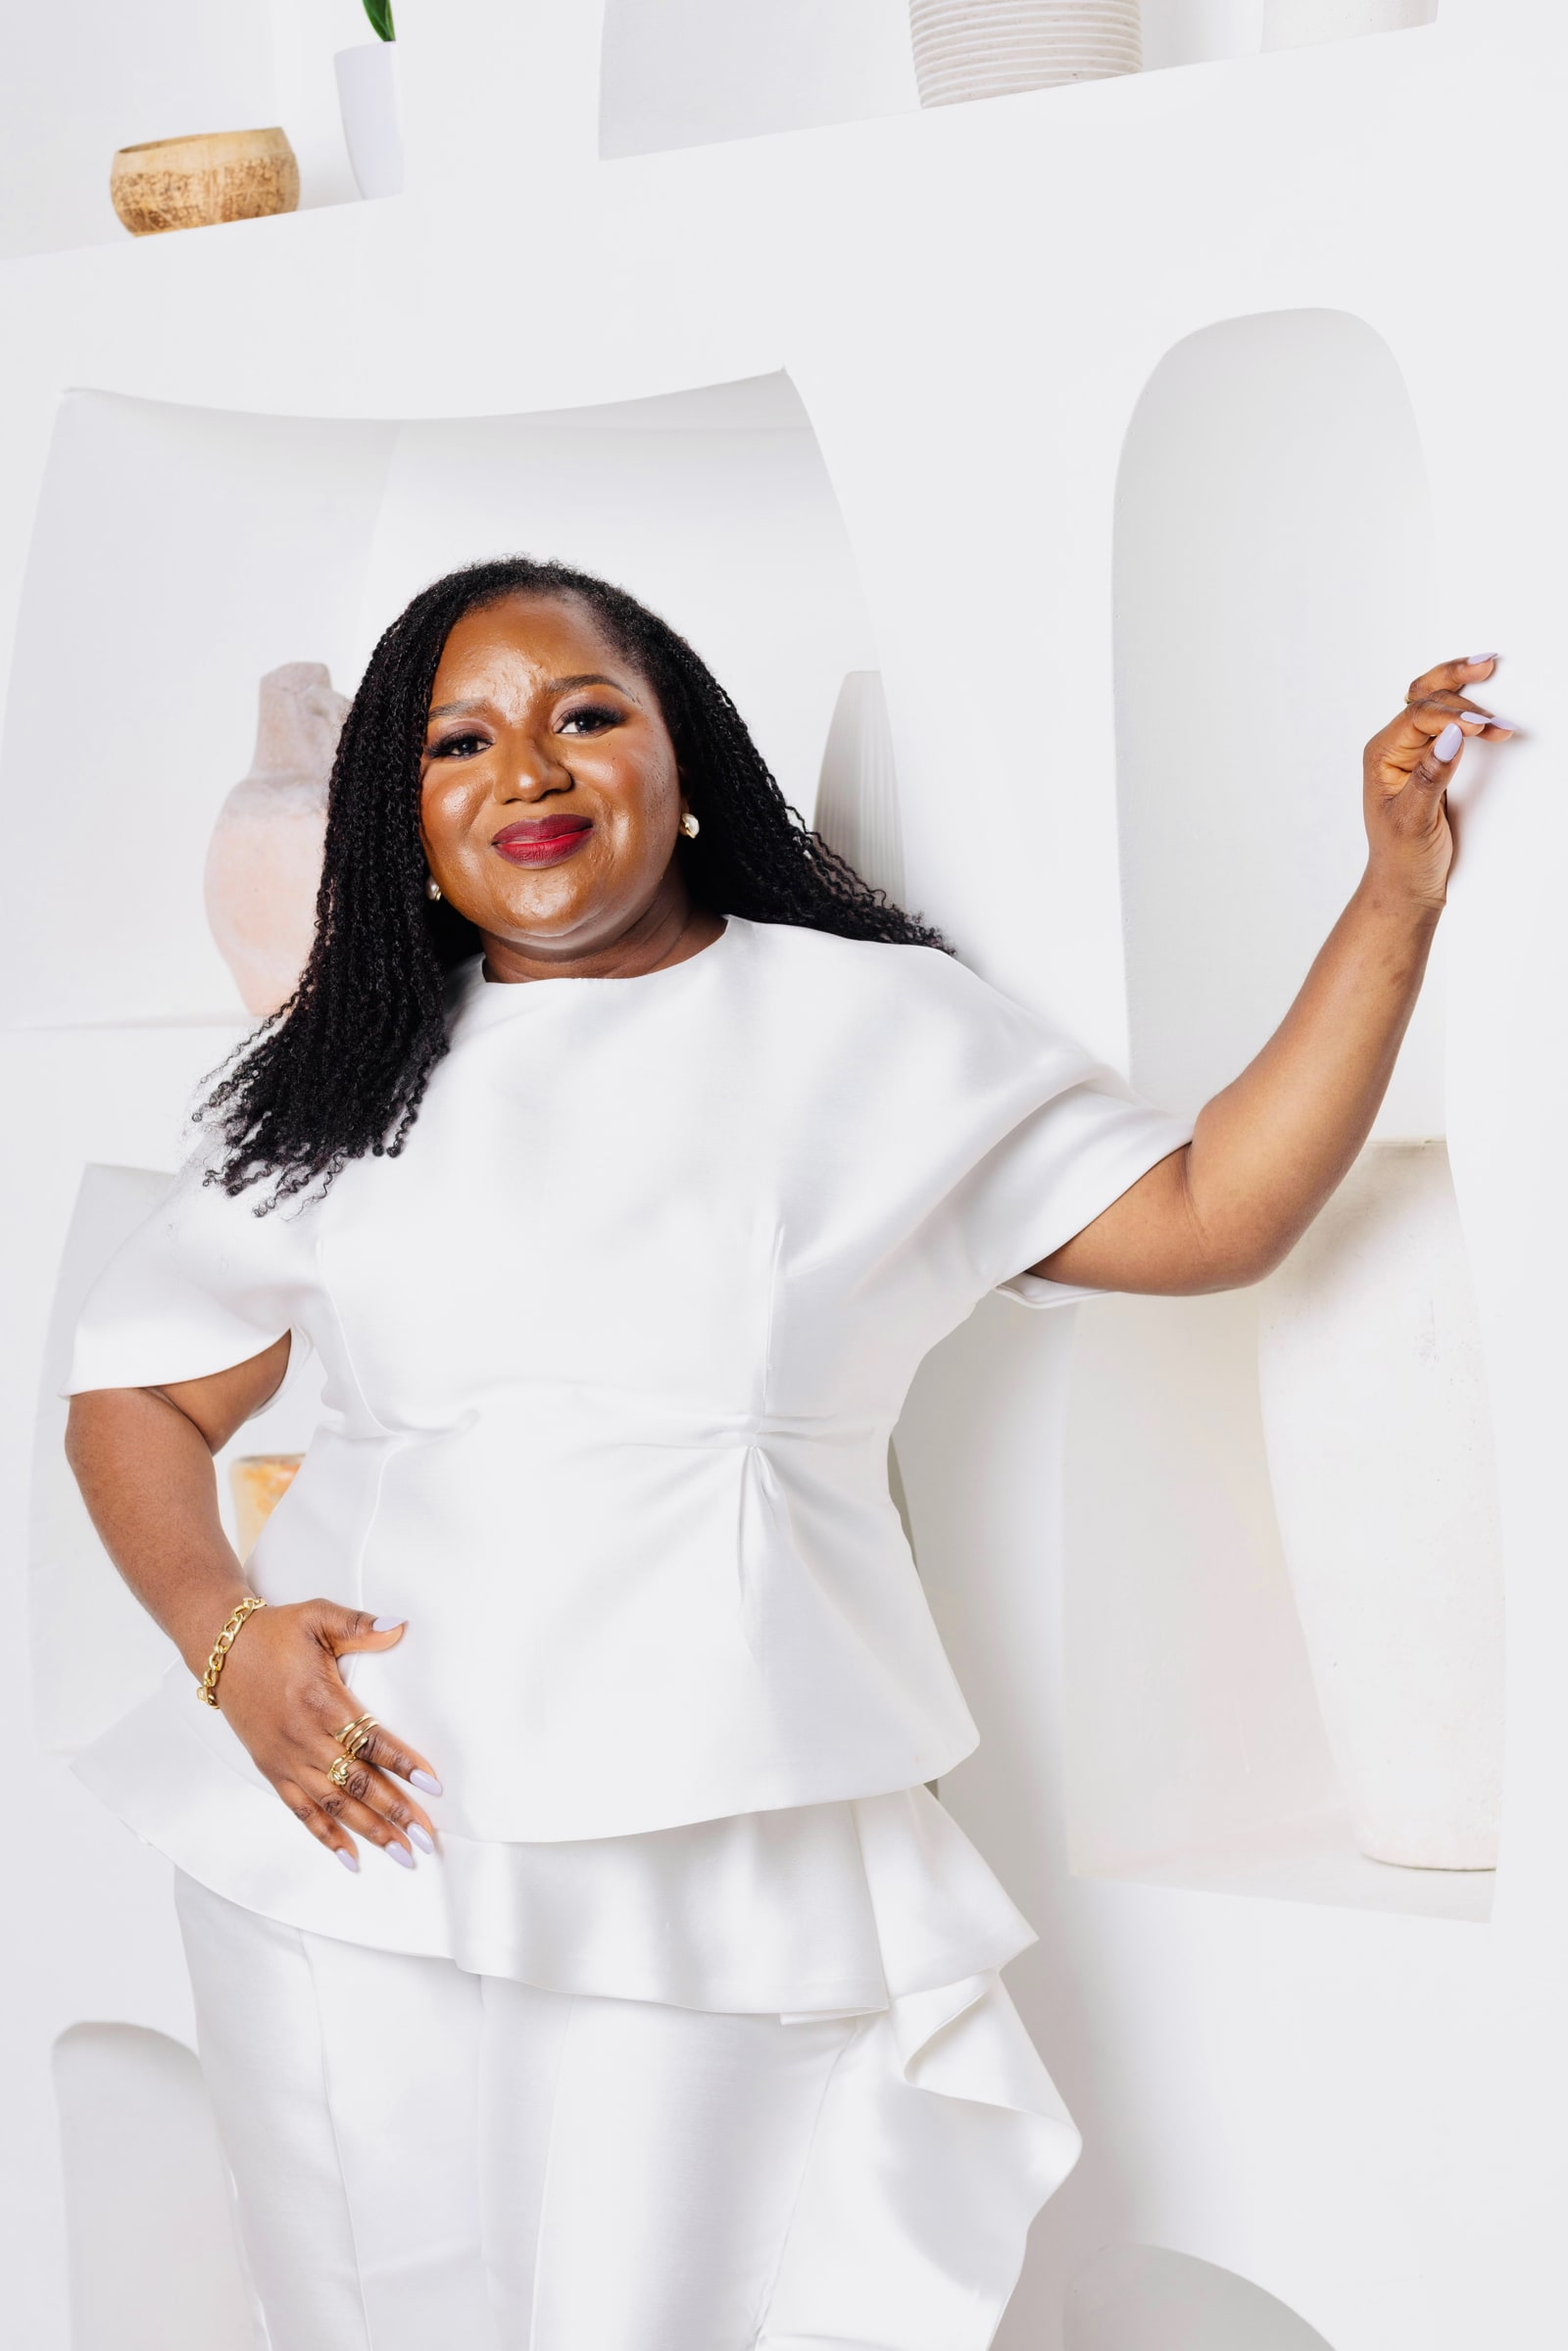
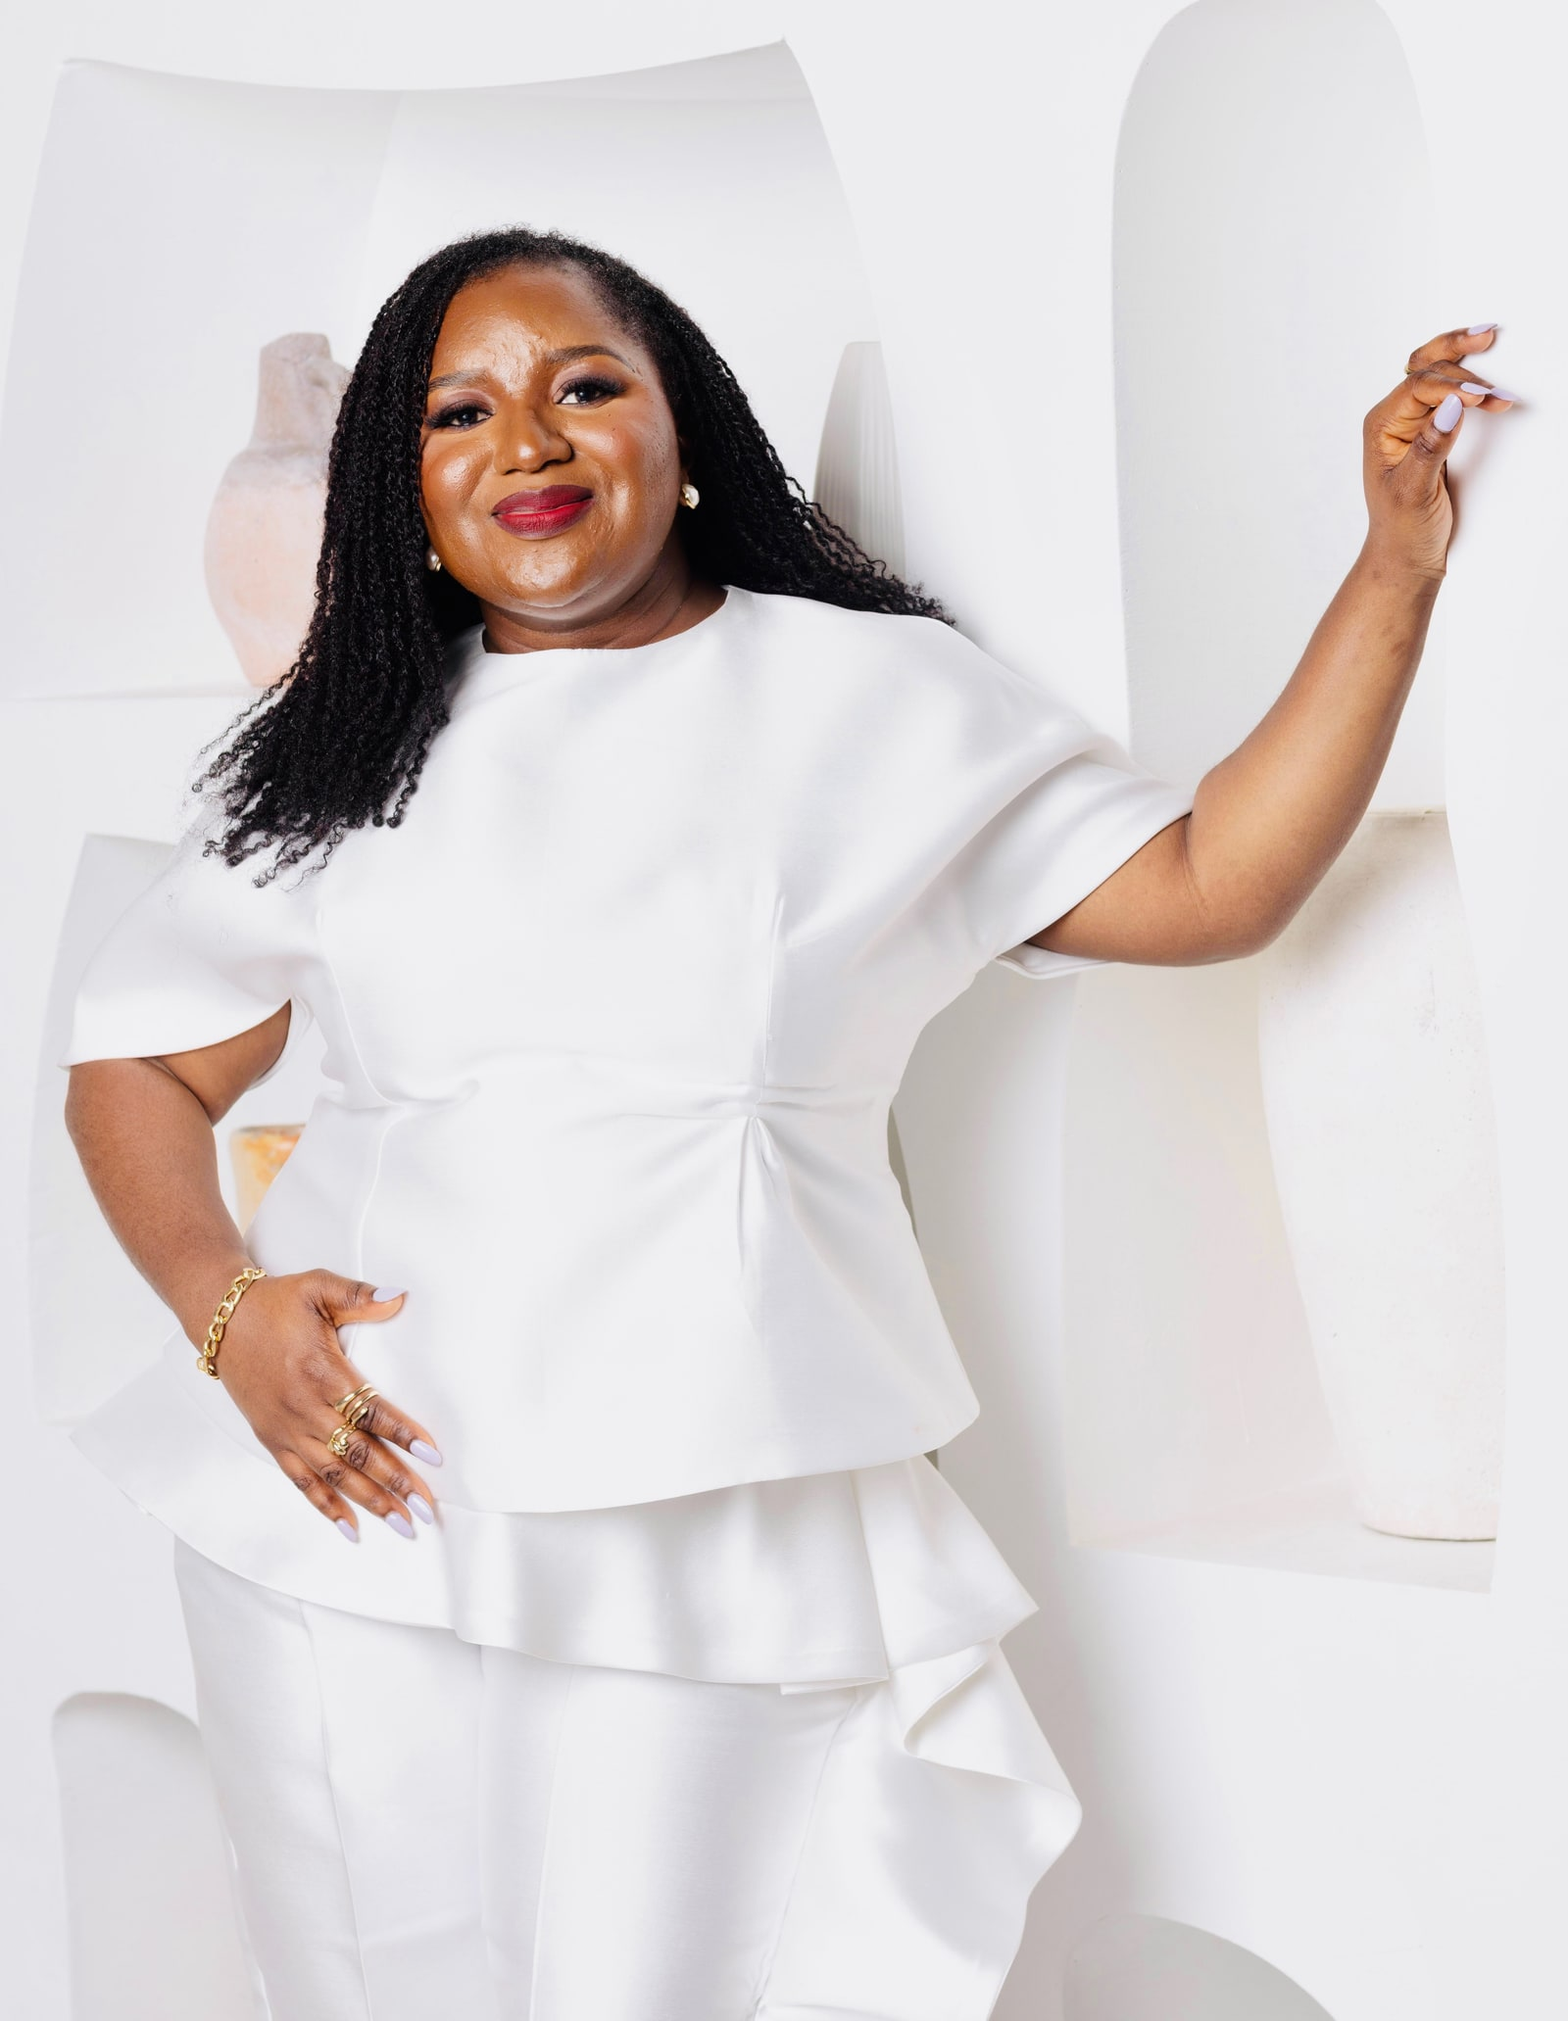
Client feedback: fuller founder bio, reworded in-kind section, tighter photo
- Founder biography restored to the fuller pre-trim version. The general
  verbosity pass had cut it to three short paragraphs; the client prefers the
  original, which carries the detail funders actually read.

- "Not everything we need is money" becomes "We also need expertise." The
  negative framing was the objection.

- The "Giving online, right now" block is removed as asked.

  Removing it exposed a trap: with no donation platform configured, every give
  button links to /get-involved#give, so buttons inside that section pointed at
  the block the reader was already looking at, and that block was the only thing
  explaining what to do. The giving tiles now open the donations inbox instead,
  so no button is a dead end. Buttons elsewhere still route to the section.

- Founder photograph re-cut from the untouched original, trimming 14% off the
  top to clear the basket in the corner while keeping headroom.

diff --git a/src/content/team/ade-olumide.md b/src/content/team/ade-olumide.md
@@ -6,12 +6,18 @@ photo: ../../assets/uploads/ade-olumide.jpg
 highlight: The Library Prefect who now builds libraries.
 ---
 
-Ade Olumide is a Nigerian-Canadian who grew up in Nigeria and settled in Canada
-as a young woman.
+Ade Olumide is a Nigerian-Canadian who spent her formative years in Nigeria
+before settling in Canada as a young woman. A project management professional
+with over 8 years of experience, she has led initiatives across government,
+banking and CPG sectors. She holds a Master's degree in International
+Development and a Bachelor's degree in Economics — a combination that shapes
+both her conviction that education is the surest lever for opportunity and her
+insistence that good intentions be matched by rigorous execution.
 
-A project manager of eight years across government, banking and consumer goods,
-she holds a Master's in International Development and a BA in Economics.
+Her commitment to AVID's mission traces back further than the foundation
+itself: she served as Library Prefect in her secondary school years, an early
+stewardship she now returns to at a larger scale. At AVID, Ade leads strategy,
+partner selection, and the foundation's relationships with funders.
 
-She was Library Prefect at her secondary school. She now does the same job at a
-larger scale — leading AVID's strategy, partner selection, and its relationships
-with funders.
+Beyond her work, she is an avid traveller who values time spent with those
+closest to her.
